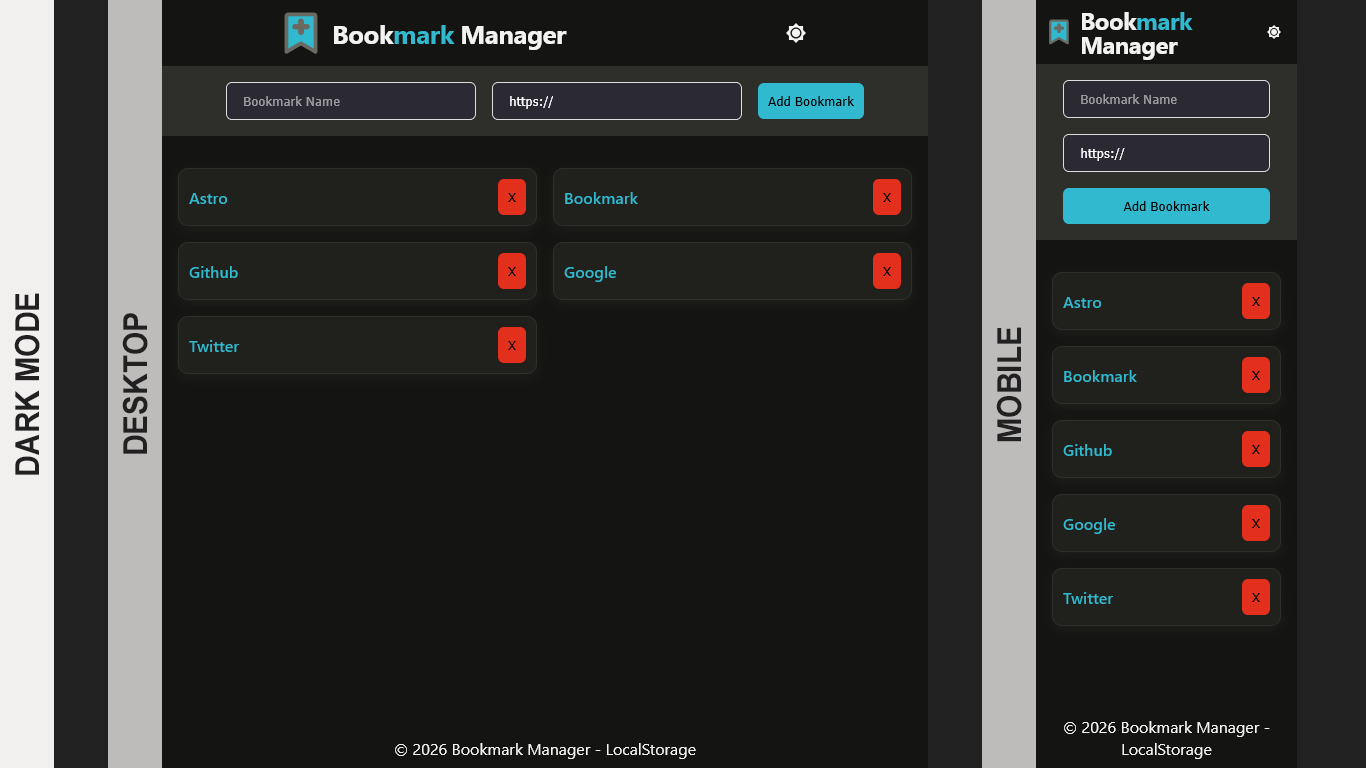
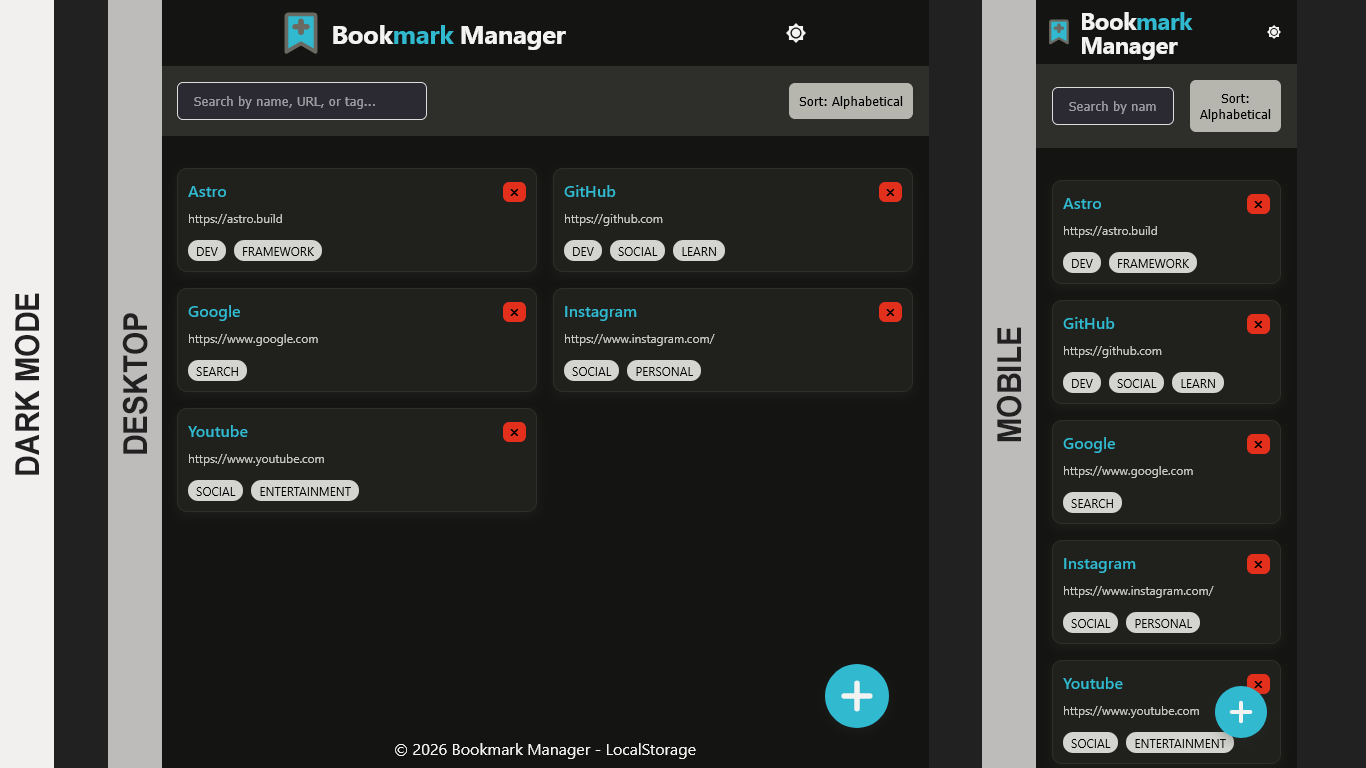
New screenshots

diff --git a/css/style.css b/css/style.css
@@ -412,12 +412,17 @@ input {
 }
 @media (max-width: 720px) {
 	.fab-btn {
-		bottom: 30px;
 		right: 30px;
 
 		svg {
 			max-width: 32px;
 		}
+	}
+	.fab-btn::after {
+		right: 2.8em;
+		bottom: var(--size-1);
+		font-size: var(--fs-300);
+		padding: var(--size-3) var(--size-6) var(--size-3) var(--size-3);
 	}
 }
 
@@ -475,11 +480,6 @@ input {
 	gap: var(--size-2);
 	padding: 0 var(--size-2) var(--size-0);
 	width: 100%;
-}
-/* When the wrapper has tags or active input text, hide its custom placeholder */
-#tag-wrapper.has-tags::before {
-	display: none;
-	visibility: hidden;
 }
 .input-tag-pill {
 	--_pill-bg: var(--color-primary);